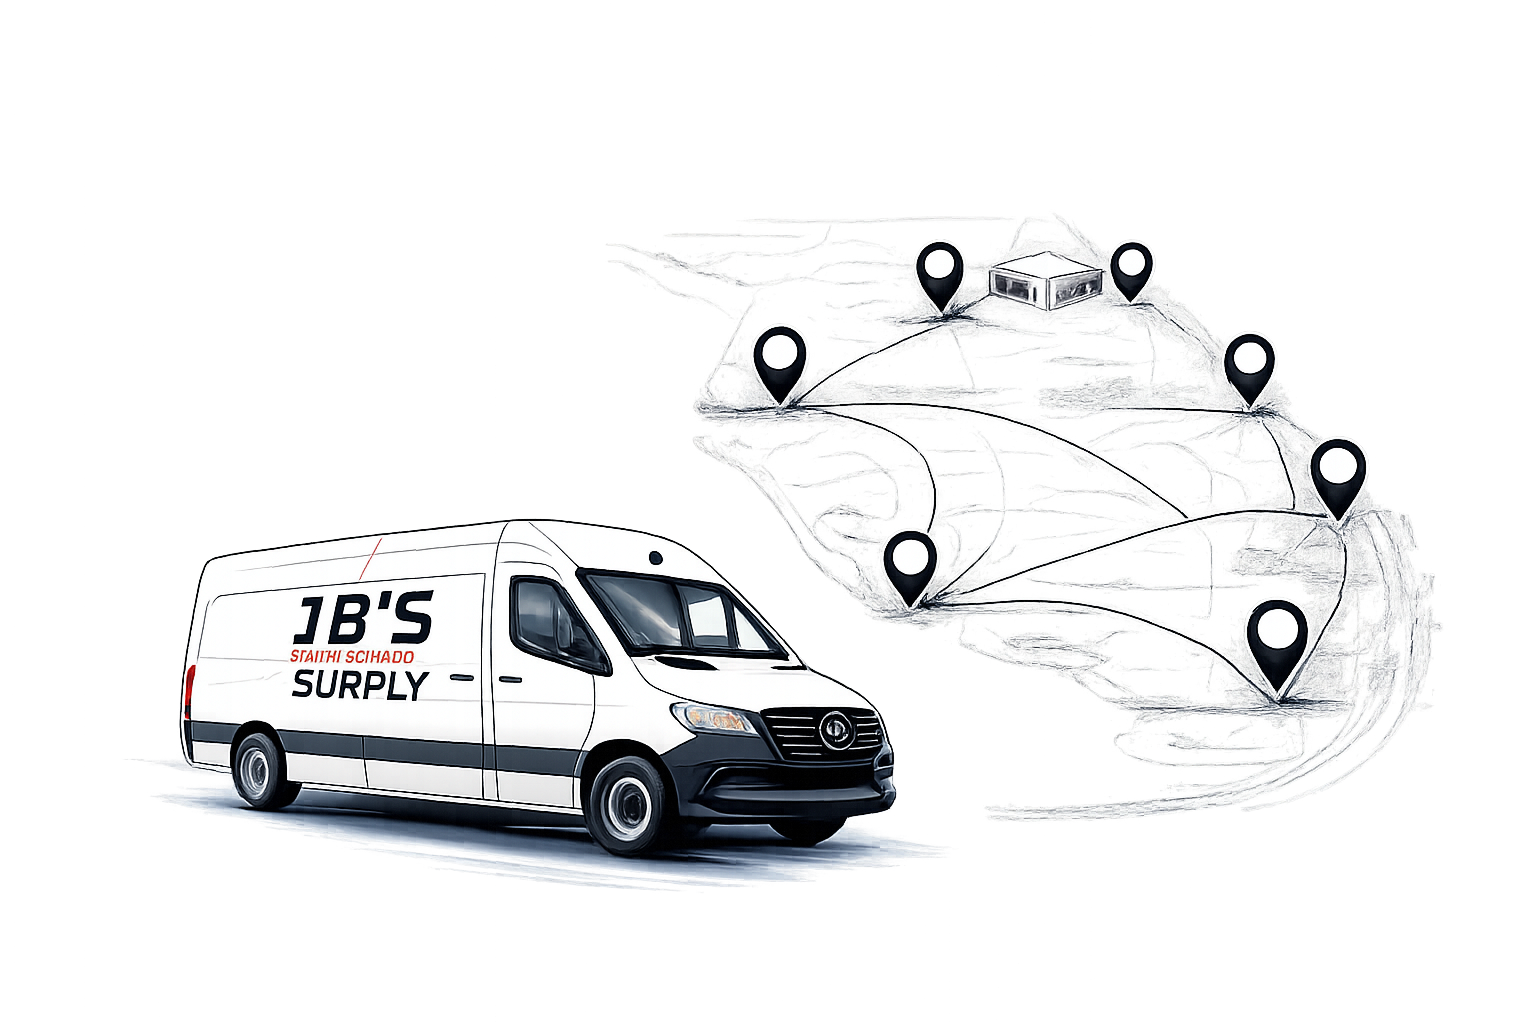
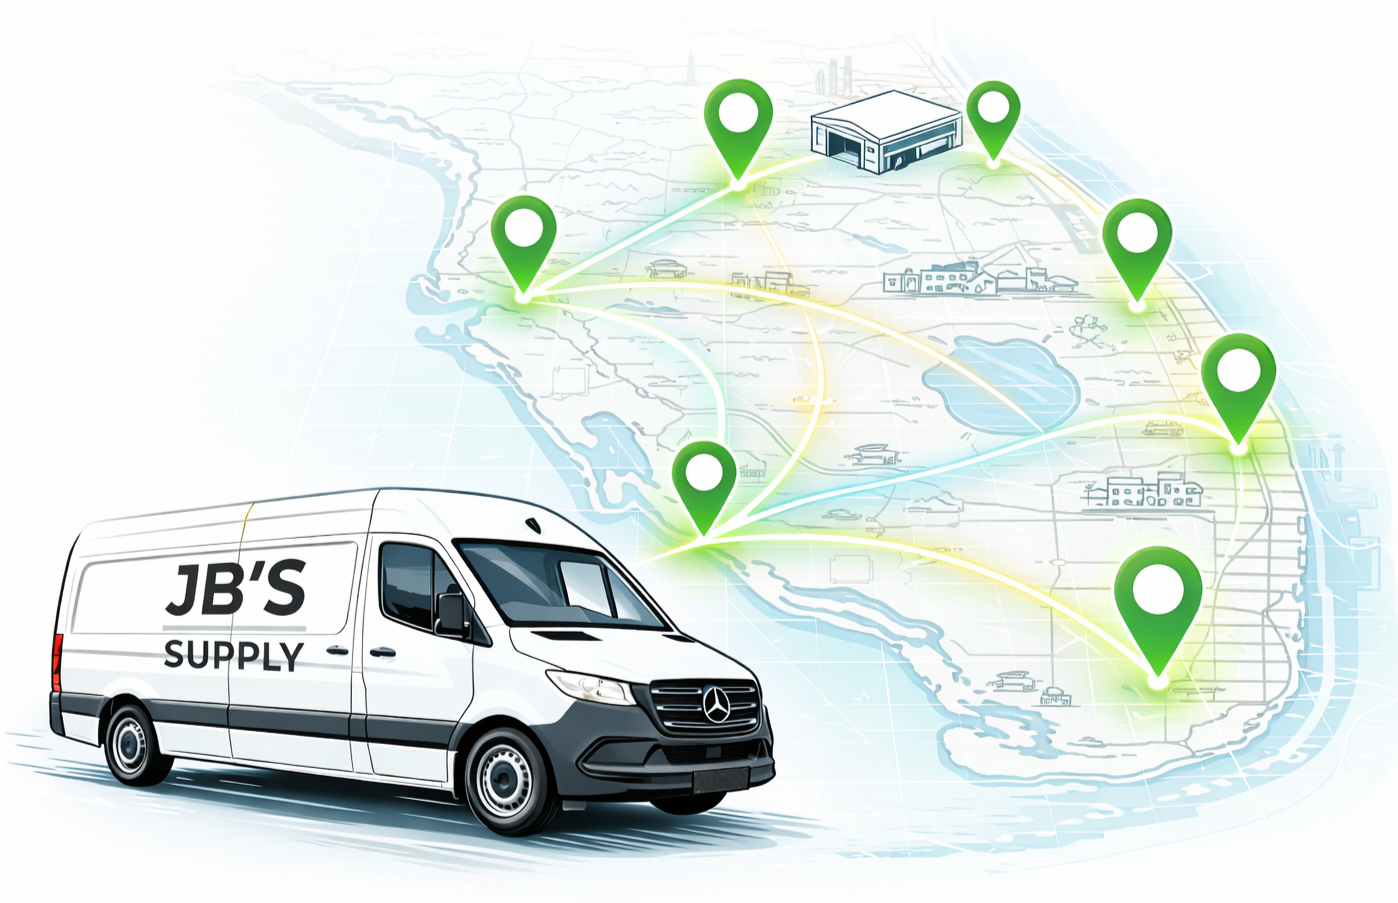
dd

diff --git a/src/modules/home/components/hero/index.tsx b/src/modules/home/components/hero/index.tsx
@@ -136,7 +136,7 @@ const MainContent = () => {
     },
     {
       title: "Reliability",
-      desc: "You show up on time and your products do what they’re supposed to do.",
+      desc: "You show up on time and your products do what they’re supposed to do.", 
       icon: ShieldCheck,
     },
   ]
@@ -147,16 +147,14 @@ const MainContent = () => {
       {/* Why Choose Us */}
       <section className="content-container text-center mb-16 sm:mb-20">
         <motion.div initial={{ opacity: 0, y: 20 }} animate={{ opacity: 1, y: 0 }} transition={{ duration: 0.8 }}>
-          <div>
-            <Image
-              src="flvan.png"
-              alt="JB'S Supply South Florida delivery network map"
-              width={400}
-              height={200}
-              //priority
-              //className="h-auto w-full object-contain"
-            />
-          </div>
+          <div className="flex justify-center">
+  <Image
+    src="/flvan.png"
+    alt="JB'S Supply South Florida delivery network map"
+    width={400}
+    height={200}
+  />
+</div>
 
           <Heading level="h2" className="text-2xl sm:text-3xl font-bold mb-4 sm:mb-6 text-black-900 font-calibri">
             Why Choose JB’s Supply?
